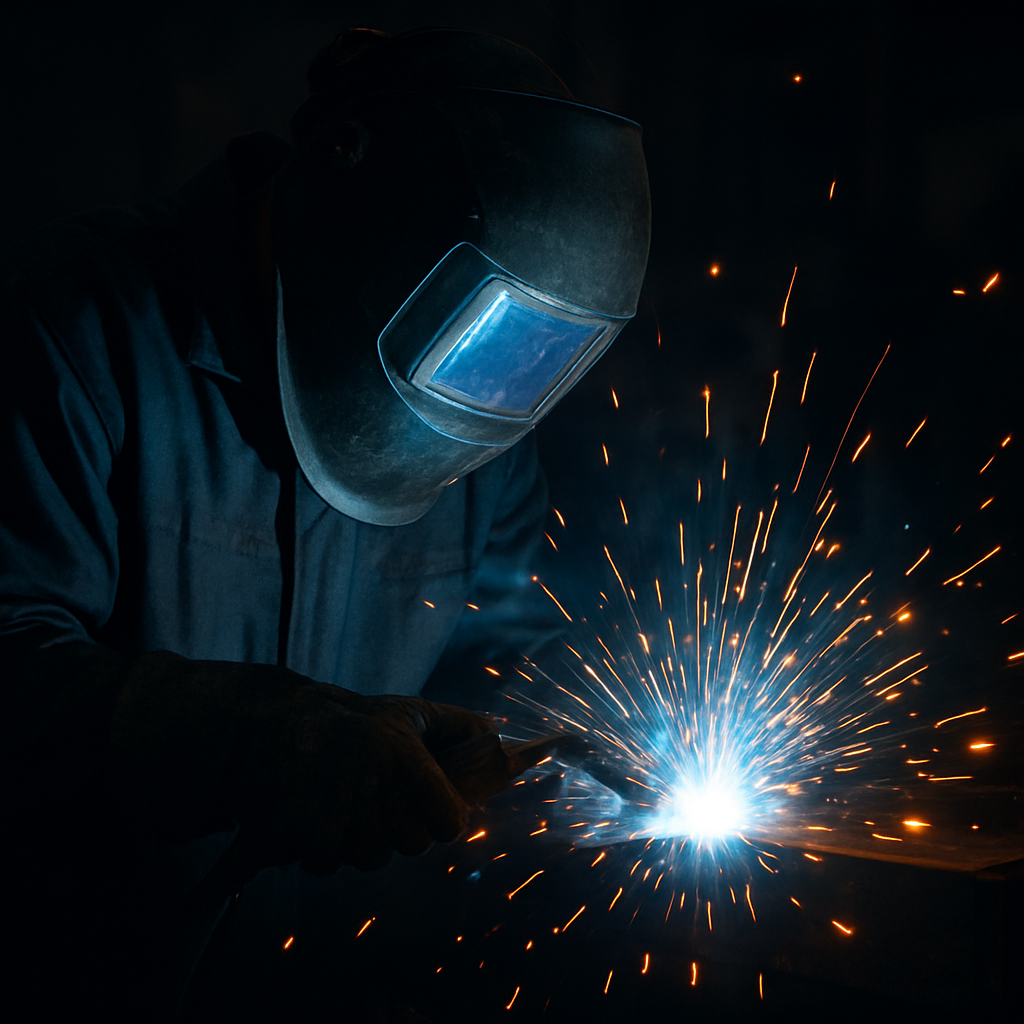
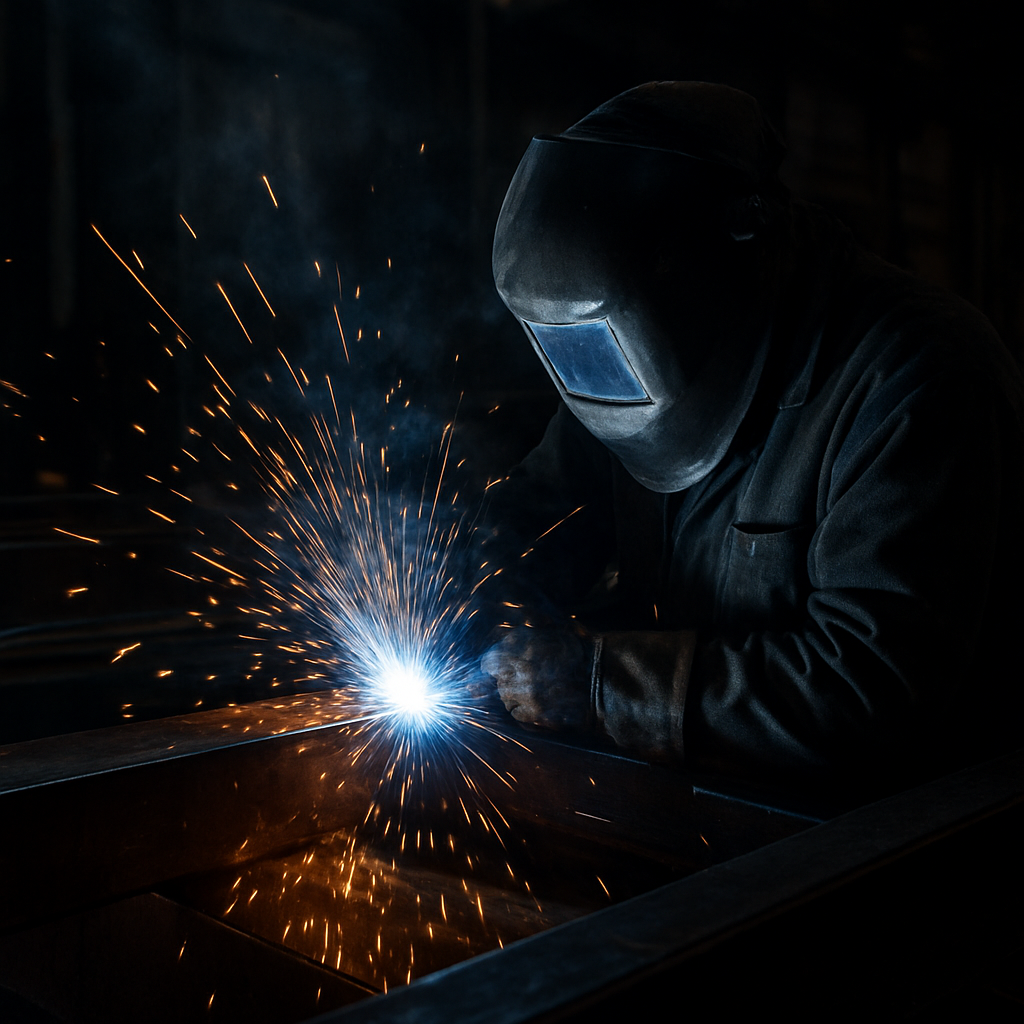
feat: update og-image URL to full path
Updated image URL in layout.tsx and public/og-image.png for full path reference

diff --git a/app/layout.tsx b/app/layout.tsx
@@ -59,7 +59,7 @@ export const metadata: Metadata = {
     siteName: 'TechSpaw',
     images: [
       {
-        url: '/og-image.png',
+        url: 'https://techspaw.pl/og-image.png',
         width: 1200,
         height: 630,
         alt: 'TechSpaw - Blog Spawalniczy',
@@ -73,7 +73,7 @@ export const metadata: Metadata = {
     card: 'summary_large_image',
     title: 'TechSpaw - Blog Spawalniczy',
     description: 'Profesjonalny blog o spawaniu - techniki MIG, TIG, MMA, porady dla spawaczy.',
-    images: ['/og-image.png'],
+    images: ['https://techspaw.pl/og-image.png'],
     creator: '@techspaw',
   },
   robots: {
